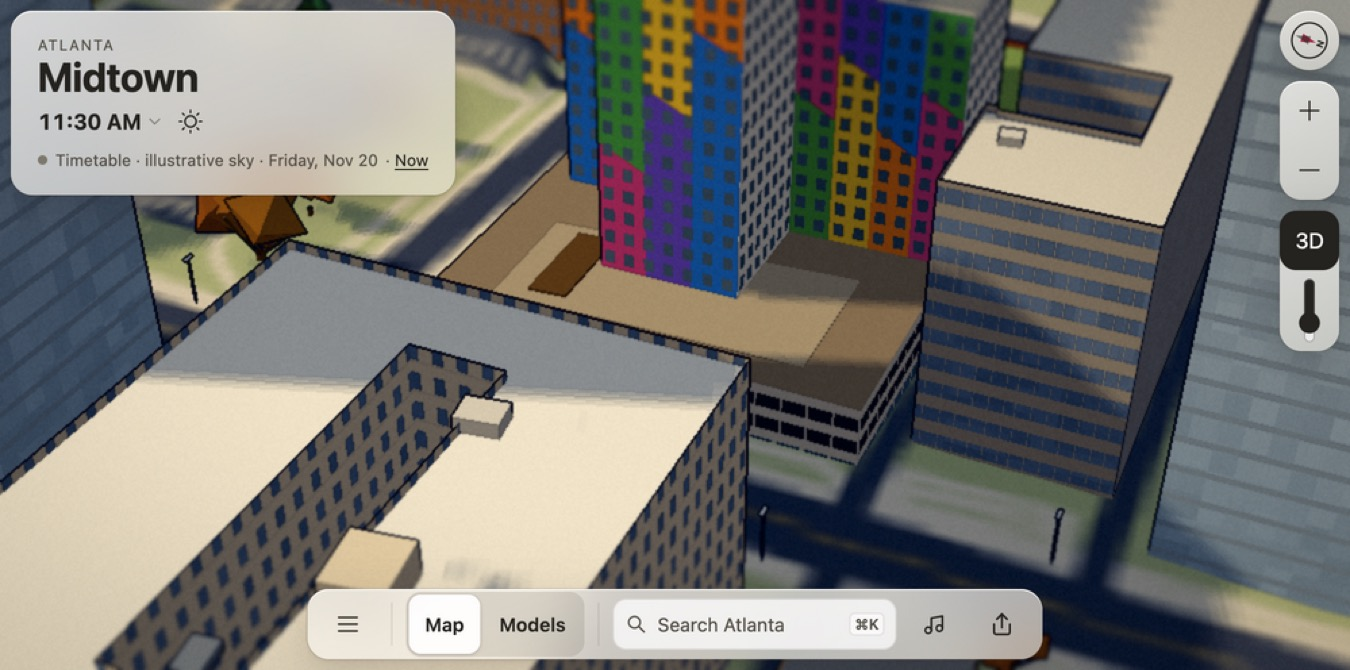
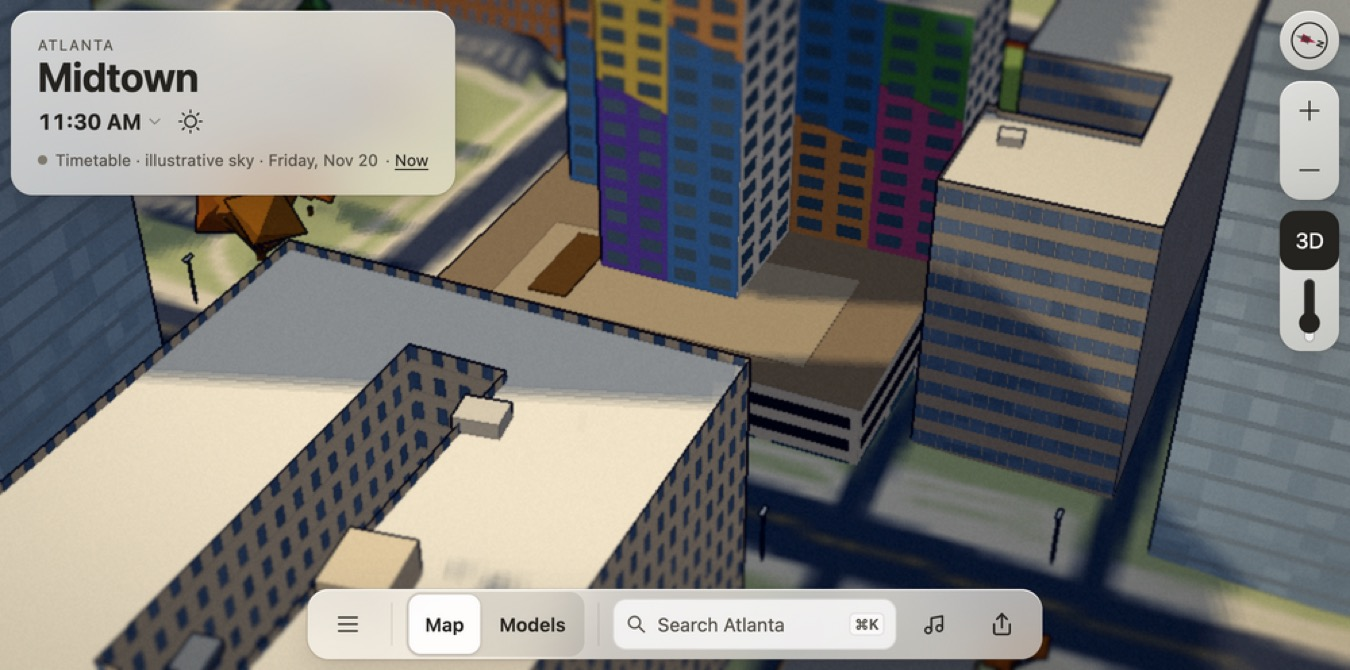
Grey Crest on Peachtree's mural toward the provisional palette
Band base S capped at 40% and V x0.9; the rendered mural median is S 55%.

Changed region(s): [[0.4044, 0.0, 0.7467, 0.4478], [0.56, 0.597, 0.6533, 0.6866]]

diff --git a/web/src/city/crest-on-peachtree.ts b/web/src/city/crest-on-peachtree.ts
@@ -16,7 +16,7 @@ const wingIds = ['osm:way:1343480981', 'osm:way:1343480982'];
 const slabCentre: P2[] = [[-33, -10.9], [7, -7.9], [5.6, 9.9], [-33.9, 7.3]];
 // Mural colours from the deck photograph: broad abstract bands of pink, orange, yellow,
 // green and blue on the walls that rise above the deck.
-const mural = ['#d9568f', '#e88a3a', '#e9c845', '#5fb06a', '#4f86c6', '#8e6cc0'];
+const mural = ['#c37597', '#d1a47d', '#d2c17e', '#5f9e68', '#6b8cb2', '#8468ad'];
 
 export function createCrestOnPeachtree(buildings: VBuilding[], site: VBuilding, grid: GroundGrid, quality: TerrainQuality) {
   // Low tier groups windows in pairs, halves the mural bands and keeps the street glass coarse.
